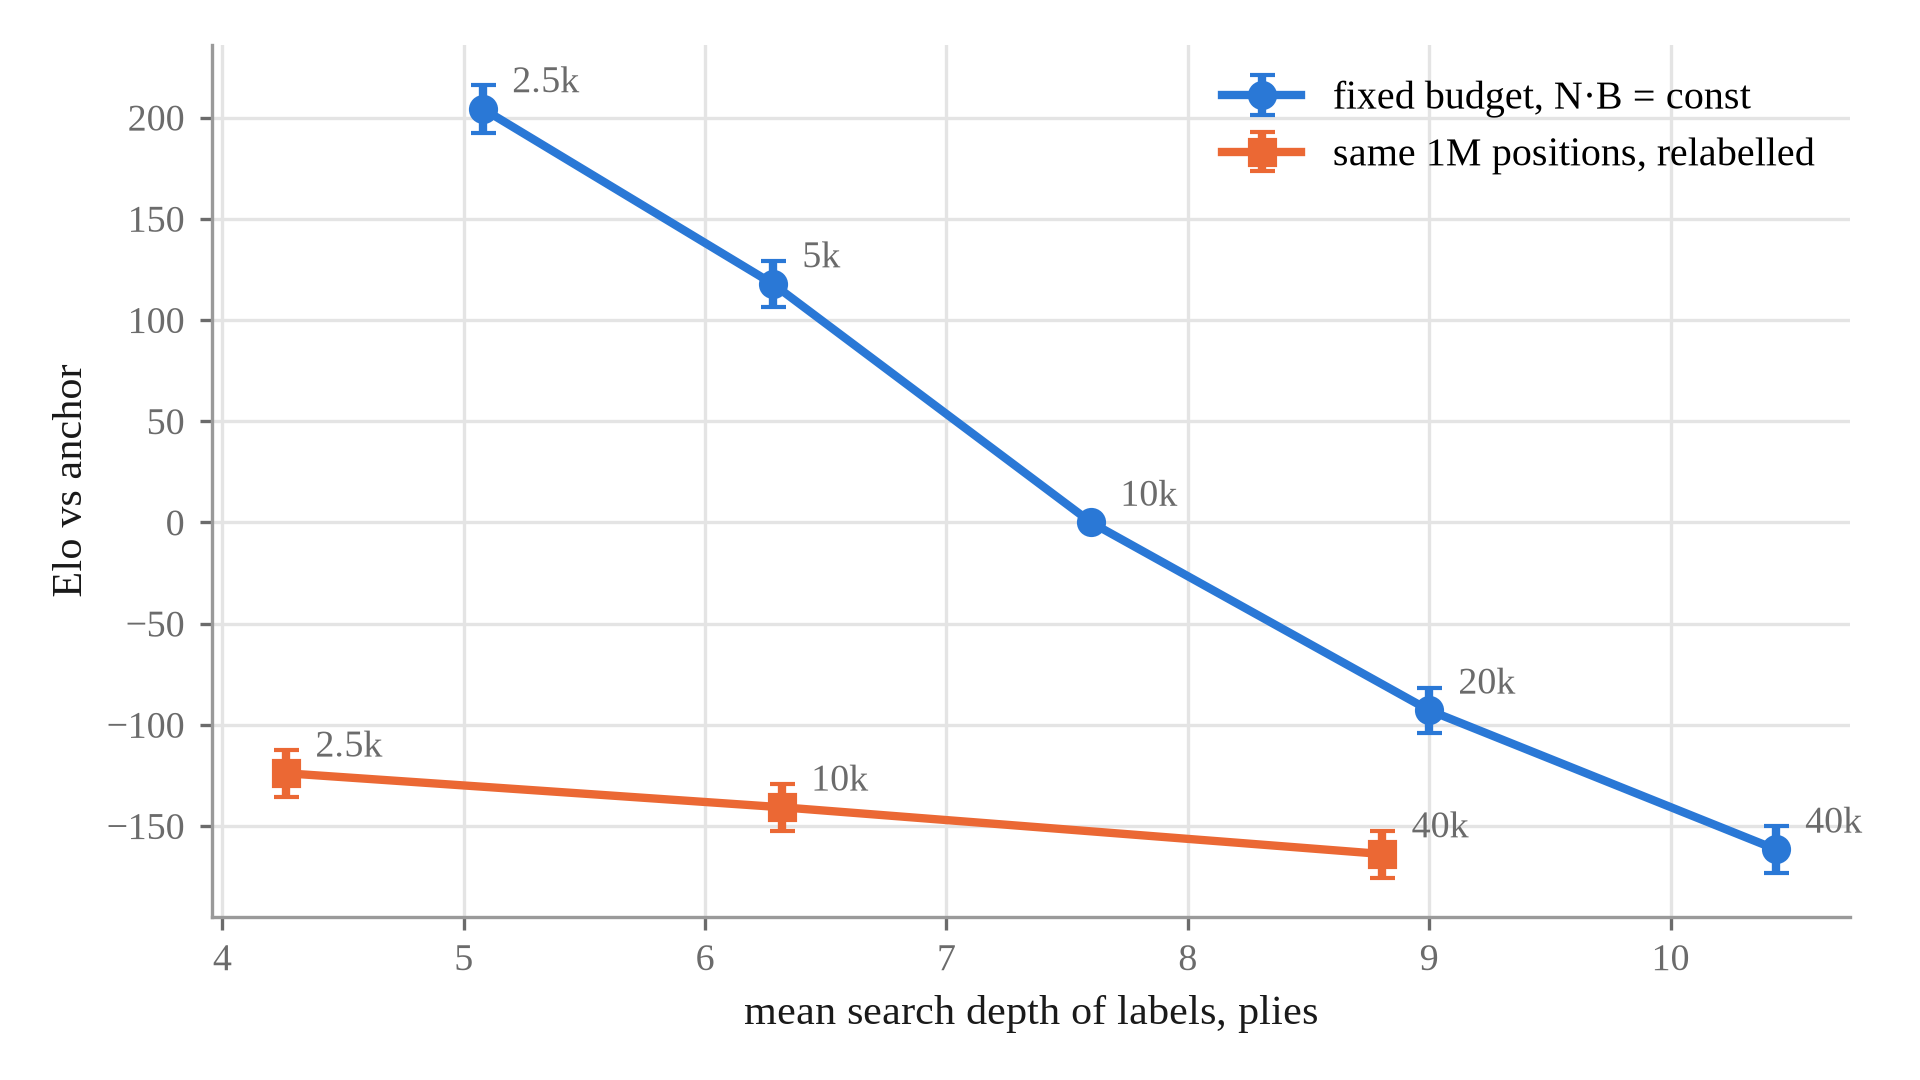
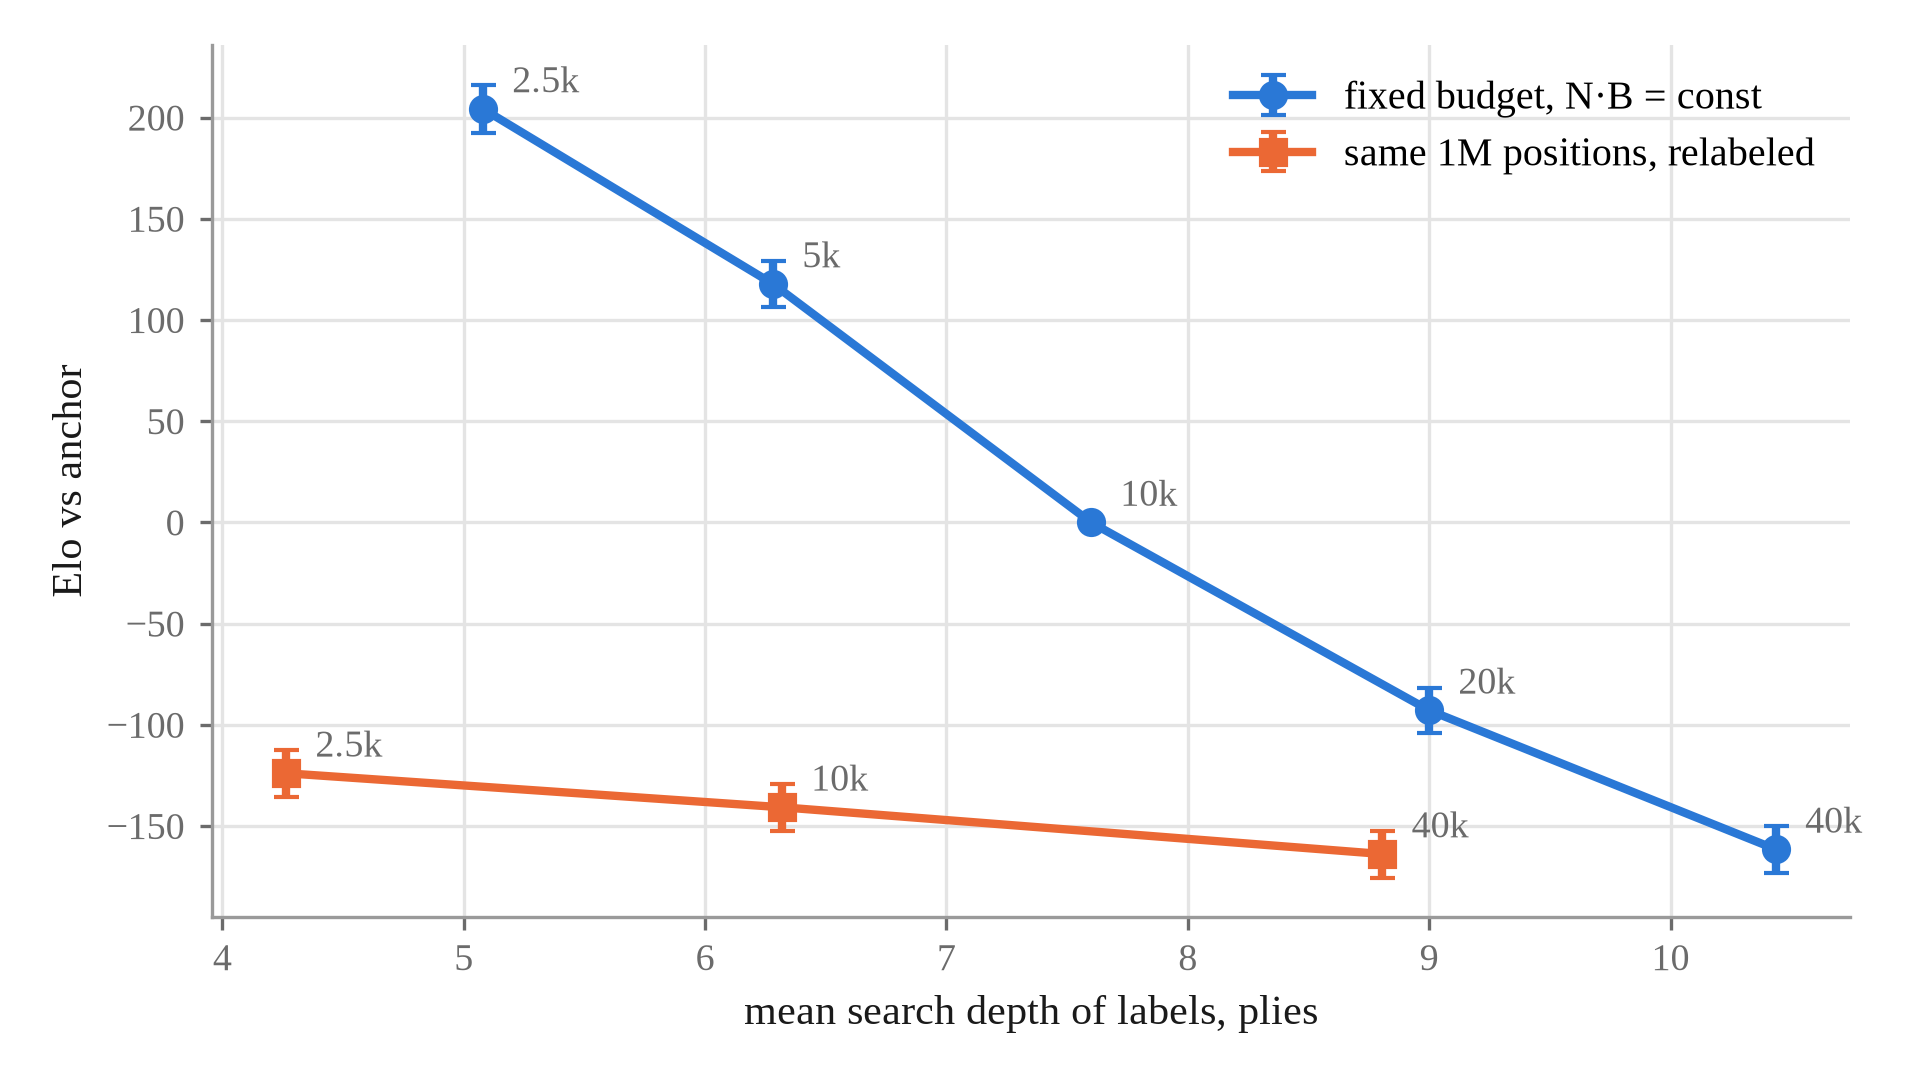
refactor: change figs a bit

Changed region(s): [[0.625, 0.0611, 0.9375, 0.1528]]

diff --git a/research/analysis/report_figs.py b/research/analysis/report_figs.py
@@ -62,7 +62,7 @@ def elo_by_depth(rate, picked):
 
     for prefix, budgets, colour, marker, label in (
         ("e2", BUDGETS, BLUE, "o", "fixed budget, N·B = const"),
-        ("e1", (2500, 10000, 40000), ORANGE, "s", "same 1M positions, relabelled"),
+        ("e1", (2500, 10000, 40000), ORANGE, "s", "same 1M positions, relabeled"),
     ):
         names = [next(p for p in picked if p.startswith(f"{prefix}-n{b}-")) for b in budgets]
         depth = [mean_depth(f"{prefix}-n{b}") for b in budgets]
